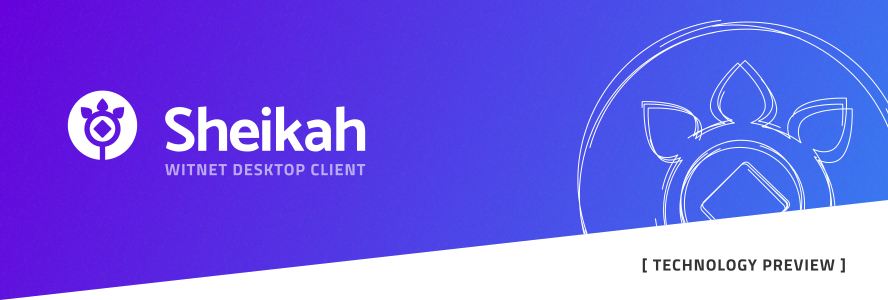
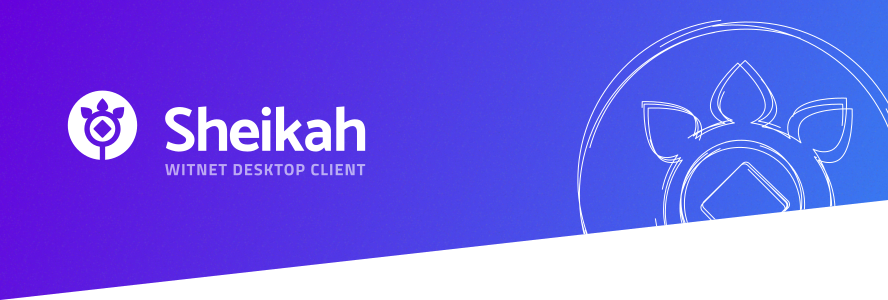
docs(readme): remove technology preview content

Changed region(s): [[0.6993, 0.84, 0.973, 0.9]]

diff --git a/README.md b/README.md
@@ -9,16 +9,6 @@
     <p><strong>Sheikah</strong> is a <a href="https://witnet.io/">Witnet</a> compatible desktop wallet and data requests development environment.</p>
 </div>
 
-## Current status
-
-**Sheikah is still a *Technology Preview***. If you run it, you will find:
-
-- **Features that work**: wallets creation, seed phrase export, addresses generation and addresses listing.
-- **Features that are partially implemented**: transactions listing, data requests listing, data requests editor.
-- **Features that are still missing**: Sheikah Marketplace, data requests deployment and selection of full node to use as backend.
-
-All of these features will be made available along the first Witnet testnet during 2020 Q2.
-
 ## Installation
 
 ### Dependencies
@@ -35,23 +25,6 @@ Go to [releases](https://github.com/witnet/sheikah/releases) section and downloa
 
 This is a Web/Desktop application built with [Electron](https://electronjs.org/). When developing Sheikah, we support **Node CURRENT and LTS+**. It might work with another version but we do not guarantee it will do in the future.
 
-### Installing witnet-rust binary
-
-As Sheikah is still in development, you need to run manually the `witnet-node` and the `witnet-wallet` to make it work. The fastest way to achieve that is by running the 'witnet-rust' binary. There is a detailed explanation in this [post](https://medium.com/witnet/how-to-run-a-full-node-on-the-witnet-testnet-911986b8add3).
-
-Once this has been achieved, you can run a `witnet-node` and a `witnet-wallet`.
-
-#### witnet-node
-
-```bash
-./witnet node server
-```
-
-#### witnet-wallet
-
-```bash
-./witnet wallet server
-```
 
 ### Running Sheikah
 
@@ -66,7 +39,7 @@ cd sheikah
 yarn
 
 # launch development application
-yarn electron:serve
+yarn electron:serve:wallet
 ```
 
 ### Formatter
@@ -79,14 +52,8 @@ yarn electron:serve
 We use [Jest](https://facebook.github.io/jest/) for testing.
 
 ``` bash
-# run unit/e2e tests
-yarn test
-
-# run e2e tests
-yarn test:e2e
-
 # run unit tests
-yarn test:unit
+yarn test
 ```
 
 ### Build
@@ -99,9 +66,9 @@ To build the application run: `yarn electron:build`, the build files are written
 
 You can read the [contributing guide](https://github.com/witnet/sheikah/blob/master/.github/CONTRIBUTING.md)
 
-#### Travis (continuous integration)
+#### Github Actions (continuous integration)
 
-When opening a pull request a job in [Travis](https://travis-ci.com/) will be fired off to check the changes. To avoid wasting time waiting for Travis output we provide the command `yarn ci` that will perform almost the same checks but it'll run in your computer.
+When opening a pull request a job in [Github Actions](https://github.com/features/actions) will be fired off to check the changes. To avoid wasting time waiting for Github Actions output we provide the command `yarn ci` that will perform almost the same checks but it'll run in your computer.
 
 #### Troubleshooting
 
@@ -110,8 +77,6 @@ When opening a pull request a job in [Travis](https://travis-ci.com/) will be fi
 * Use `yarn reinstall` to remove all installed dependencies and install them again
 
 If the application doesn't boot correctly and no error is reported in the terminal, try running `yarn reinstall` and try again.
-
-
 
 ## Release
 Releases are created using [action-electron-builder](https://github.com/samuelmeuli/action-electron-builder). A new draft release will be publish naming a commit and a tag as v*.*.*
